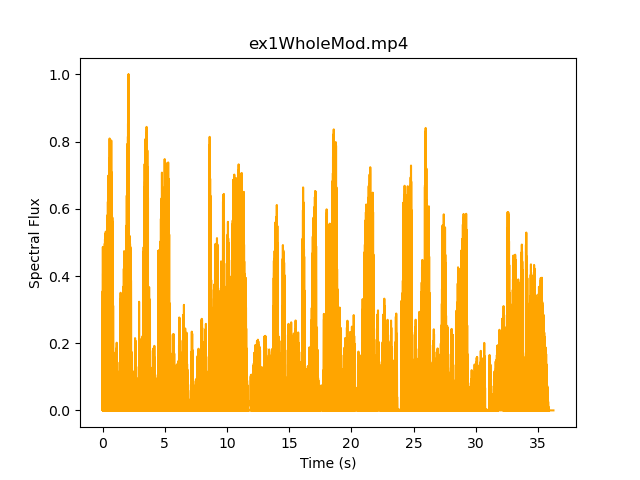
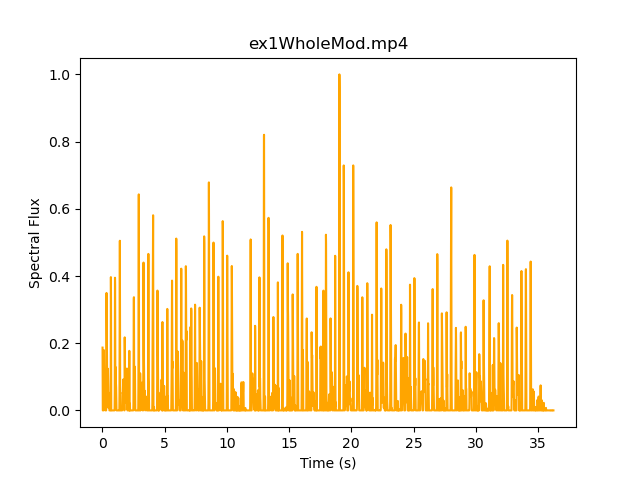
working spectral flux note onset detection

Changed region(s): [[0.1562, 0.1562, 0.875, 0.875]]

diff --git a/helpers.py b/helpers.py
@@ -78,7 +78,7 @@ def differentiate(ys, xs):
     return np.diff(ys) / np.diff(xs)
 
 # hop_len is the hop_len for librosa.pyin
-def detect_onsets(spec_flux, times, sr, f0, voiced, hop_len, threshold=0.15, min_time_between=0.15, min_hz_diff=80):
+def detect_onsets(spec_flux, times, sr, f0, voiced, hop_len, threshold=0.15, min_time_between=0.15, min_hz_diff=20):
     onsets = []
 
     seconds_per_f0_read = hop_len / sr
@@ -94,9 +94,10 @@ def detect_onsets(spec_flux, times, sr, f0, voiced, hop_len, threshold=0.15, min
         if not onsets or (times[i] - onsets[-1]) > min_time_between:
             # Check if it's a local peak above threshold 
             flux_peak = (spec_flux[i] > spec_flux[i-1] and spec_flux[i] >= spec_flux[i+1] and spec_flux[i] > threshold)
+
             if flux_peak:  # ### CHANGED: early-accept flux peaks
                 onsets.append(times[i])
-                continue
+            continue
 
             # check for note fundamental frequency change (f0)
             f0_frame = int(i / hop_len)
@@ -133,7 +134,7 @@ def detect_onsets(spec_flux, times, sr, f0, voiced, hop_len, threshold=0.15, min
     return onsets
 
 def magnitudeSpectrogram(ys, ts, sr):
-    fr_len = .002 # 20ms frames
+    fr_len = .02 # 20ms frames
     hop_length = int(sr * fr_len)
     
     frame_freq_amps = []
@@ -164,7 +165,7 @@ def computeSpectralFlux(time_frames, frame_freq_amps, sample_rate):
         flux = 0
         for f in range(len(frame_freq_amps)):
             # we half-wave rectify, so this only computes positive changes in
-            flux += frame_freq_amps[f][t] - frame_freq_amps[f][t - 1] 
+            flux += frame_freq_amps[f][t] - frame_freq_amps[f][t - 1]
         spec_flux[t - 1] = flux
 
     spec_flux = np.array(spec_flux)
@@ -174,14 +175,13 @@ def computeSpectralFlux(time_frames, frame_freq_amps, sample_rate):
     # apply filter to smooth. use median filter with window ~40 ms.
     # frame_hz = (time_frames[1] - time_frames[0]) * sample_rate
     # k = int(round(.04 * frame_hz)) | 1
-    # spec_flux = medfilt(spec_flux, kernel_size=5)
+    # spec_flux = medfilt(spec_flux, kernel_size=3)
 
     # half-wave rectify
     spec_flux = np.maximum(spec_flux, 0)
     
     # Normalize spec_flux
     spec_flux /= max(spec_flux)
-
 
     return time_frames[1:], spec_flux # skip the first in time_frames due to difference calculation
 
